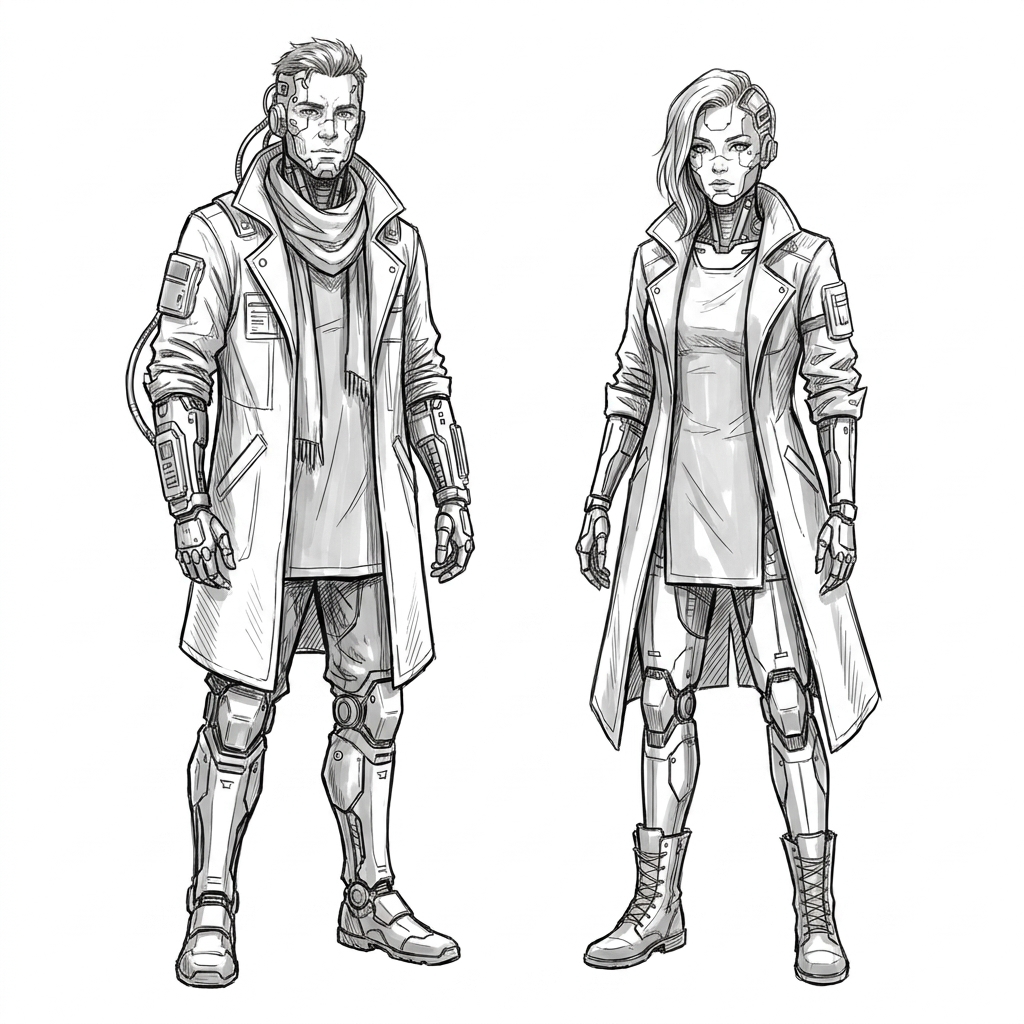
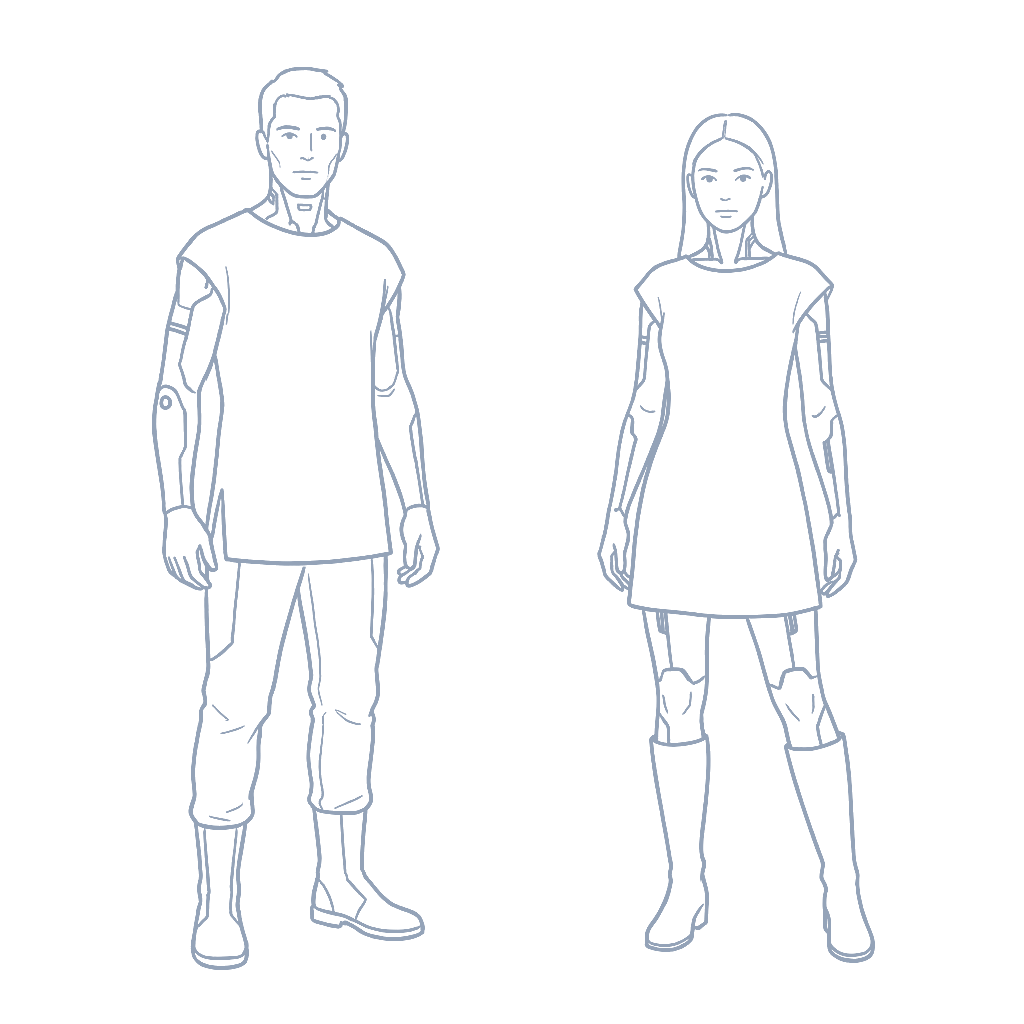
feat(character-editor): UI polish — Parameter tab, Spezies-Wappen, Karussell (#40)
* feat(character-editor): UI polish — Parameter tab, Spezies, Geschlecht, Regelset

Consolidates editor tabs, adds species/archetype carousels and skill icons,
requires gender reading on save, moves ruleset to header dropdown, renames
Wesen→Spezies, and fixes self-host migration mount path for 007.

* docs(qa): refresh composition-gate proof for UI polish slice

Updates CLEAR proof SHA and notes for gender reading, ruleset header, and
self-host migration path without changing persistence hop cardinality.

* fix(ci): satisfy typed-strict lint and PR typecheck for editor UI

Remove as-any usage in App.tsx, add React type definitions for verify
typecheck, and fix SkillSelectField/ArchetypeCarousel typing issues so
test-gate passes on pull_request against main.

* test(e2e): align character editor spec with Parameter sub-tabs

Talente now shows species traits; Essenz tab owns Gebunden/Pakt checks.

* docs(qa): refresh composition-gate proof for CI head SHA

* feat(character-editor): species heraldic banners and carousel polish

Add per-species coat-of-arms assets with colorway headers, selection-only shimmer/pulse, refreshed sketches, and updated QA evidence for the Spezies carousel.

* docs(qa): pin composition-gate proof to species carousel head SHA

---------

Changed region(s): [[0.125, 0.0312, 0.4688, 0.9688], [0.5625, 0.0625, 0.875, 0.9688]]

diff --git a/src/modules/characters/components/SpeciesCarousel.tsx b/src/modules/characters/components/SpeciesCarousel.tsx
@@ -6,6 +6,8 @@ import { useEffect, useRef, useState } from 'react';
 import { ChevronLeft, ChevronRight } from 'lucide-react';
 import { sagaDriveRaceOptions } from '../../rulesets/characterCreation';
 import { RuleHelp } from './RuleHelp';
+import { SpeciesBannerFlag } from './SpeciesBannerFlag';
+import { getSpeciesColorway } from './speciesBanners';
 import { getSpeciesSketchUrl } from './speciesSketches';
 import { Badge } from '../../../components/ui/badge';
 import { Button } from '../../../components/ui/button';
@@ -130,6 +132,49 @@ export function SpeciesCarousel({ selectedRace, onSelect, labelledBy = 'species-
           position: absolute;
           cursor: pointer;
         }
+        .species-banner-flag-wrap {
+          position: relative;
+        }
+        .species-banner-shimmer {
+          position: absolute;
+          inset: 0;
+          pointer-events: none;
+          background: linear-gradient(
+            105deg,
+            transparent 35%,
+            color-mix(in srgb, var(--species-shimmer-soft) 18%, transparent) 42%,
+            color-mix(in srgb, var(--species-shimmer) 48%, transparent) 50%,
+            color-mix(in srgb, var(--species-shimmer-soft) 18%, transparent) 58%,
+            transparent 65%
+          );
+          background-size: 220% 100%;
+          animation: species-banner-shimmer 2.8s ease-in-out infinite;
+          mix-blend-mode: overlay;
+        }
+        @keyframes species-banner-shimmer {
+          0%, 100% {
+            background-position: 180% 0;
+          }
+          50% {
+            background-position: -80% 0;
+          }
+        }
+        .species-card-header {
+          border-top-width: 2px;
+          border-top-style: solid;
+          background-color: var(--species-header-bg);
+        }
+        .species-card-header.is-selected {
+          animation: species-header-pulse 2.8s ease-in-out infinite;
+        }
+        @keyframes species-header-pulse {
+          0%, 100% {
+            background-color: var(--species-header-bg);
+          }
+          50% {
+            background-color: var(--species-header-bg-pulse);
+          }
+        }
       `}</style>
 
       <Carousel
@@ -148,6 +193,15 @@ export function SpeciesCarousel({ selectedRace, onSelect, labelledBy = 'species-
           {options.map((option, index) => {
             const isCenter = index === current;
             const isSelected = selectedRace === option.value;
+            const colorway = getSpeciesColorway(option.value);
+            const headerStyle = {
+              '--species-header-bg': colorway.headerBg,
+              '--species-header-bg-pulse': colorway.headerBgPulse,
+              '--species-accent': colorway.accent,
+              '--species-text': colorway.text,
+              '--species-border': colorway.border,
+              borderTopColor: colorway.border,
+            } as React.CSSProperties;
             return (
               <CarouselItem
                 key={option.value}
@@ -174,10 +228,11 @@ export function SpeciesCarousel({ selectedRace, onSelect, labelledBy = 'species-
                       }}
                     >
                       <div className="relative aspect-[4/5] overflow-hidden bg-background">
+                        <SpeciesBannerFlag species={option.value} isSelected={isSelected} />
                         <img
                           src={getSpeciesSketchUrl(option.value)}
                           alt={`Skizze: ${option.label}`}
-                          className="absolute inset-0 h-full w-full object-contain p-3"
+                          className="absolute inset-0 z-10 h-full w-full object-contain p-3"
                           draggable={false}
                         />
                         {isSelected && isCenter && (
@@ -186,14 +241,21 @@ export function SpeciesCarousel({ selectedRace, onSelect, labelledBy = 'species-
                           </Badge>
                         )}
                       </div>
-                      <CardHeader className="space-y-2 p-3 md:p-4">
+                      <CardHeader
+                        className={`species-card-header space-y-2 p-3 md:p-4 ${isSelected ? 'is-selected' : ''}`}
+                        style={headerStyle}
+                      >
                         <div className="flex items-center gap-1">
-                          <CardTitle className="text-sm md:text-base">{option.label}</CardTitle>
+                          <CardTitle className="text-sm md:text-base" style={{ color: colorway.accent }}>
+                            {option.label}
+                          </CardTitle>
                           <span className="inline-flex" onPointerDown={(event) => event.stopPropagation()} onClick={(event) => event.stopPropagation()}>
                             <RuleHelp label={option.label}>{option.description}</RuleHelp>
                           </span>
                         </div>
-                        <p className="text-xs leading-relaxed text-muted-foreground line-clamp-3">{option.description}</p>
+                        <p className="text-xs leading-relaxed line-clamp-3" style={{ color: colorway.text }}>
+                          {option.description}
+                        </p>
                       </CardHeader>
                     </Card>
                 </div>

diff --git a/src/modules/characters/components/speciesBanners.ts b/src/modules/characters/components/speciesBanners.ts
@@ -1,0 +1,91 @@
+/**
+ * speciesBanners — Flat-color heraldic coat of arms per SagaDrive Spezies.
+ * Style: bold logo, distinct colors/patterns, no shading, uniform 400×512px RGB.
+ * Location: src/modules/characters/components/speciesBanners.ts
+ */
+import alienBanner from '../../../assets/species/banners/alien.png';
+import cyborgBanner from '../../../assets/species/banners/cyborg.png';
+import dwarfBanner from '../../../assets/species/banners/dwarf.png';
+import elfBanner from '../../../assets/species/banners/elf.png';
+import halflingBanner from '../../../assets/species/banners/halfling.png';
+import humanBanner from '../../../assets/species/banners/human.png';
+import orcBanner from '../../../assets/species/banners/orc.png';
+
+export const speciesBannerSources: Record<string, string> = {
+  human: humanBanner,
+  elf: elfBanner,
+  dwarf: dwarfBanner,
+  halfling: halflingBanner,
+  orc: orcBanner,
+  cyborg: cyborgBanner,
+  alien: alienBanner,
+};
+
+export function getSpeciesBannerUrl(race: string): string {
+  return speciesBannerSources[race.trim().toLowerCase()] ?? humanBanner;
+}
+
+/** Farbschema pro Spezies — abgeleitet vom jeweiligen Wappen. */
+export type SpeciesColorway = {
+  headerBg: string;
+  headerBgPulse: string;
+  accent: string;
+  text: string;
+  border: string;
+};
+
+export const speciesColorways: Record<string, SpeciesColorway> = {
+  human: {
+    headerBg: 'rgba(185, 45, 40, 0.14)',
+    headerBgPulse: 'rgba(185, 45, 40, 0.22)',
+    accent: '#D4A040',
+    text: 'rgba(212, 180, 140, 0.88)',
+    border: 'rgba(185, 45, 40, 0.55)',
+  },
+  elf: {
+    headerBg: 'rgba(60, 120, 70, 0.14)',
+    headerBgPulse: 'rgba(60, 120, 70, 0.22)',
+    accent: '#8BB89A',
+    text: 'rgba(139, 184, 154, 0.88)',
+    border: 'rgba(60, 120, 70, 0.55)',
+  },
+  dwarf: {
+    headerBg: 'rgba(168, 100, 50, 0.14)',
+    headerBgPulse: 'rgba(168, 100, 50, 0.22)',
+    accent: '#D49050',
+    text: 'rgba(212, 160, 100, 0.88)',
+    border: 'rgba(168, 100, 50, 0.55)',
+  },
+  halfling: {
+    headerBg: 'rgba(80, 140, 60, 0.14)',
+    headerBgPulse: 'rgba(80, 140, 60, 0.22)',
+    accent: '#7CB356',
+    text: 'rgba(180, 200, 120, 0.88)',
+    border: 'rgba(120, 160, 70, 0.55)',
+  },
+  orc: {
+    headerBg: 'rgba(180, 40, 40, 0.14)',
+    headerBgPulse: 'rgba(180, 40, 40, 0.22)',
+    accent: '#C83838',
+    text: 'rgba(200, 120, 120, 0.88)',
+    border: 'rgba(180, 40, 40, 0.55)',
+  },
+  cyborg: {
+    headerBg: 'rgba(40, 120, 180, 0.14)',
+    headerBgPulse: 'rgba(40, 120, 180, 0.22)',
+    accent: '#40B8E0',
+    text: 'rgba(100, 180, 220, 0.88)',
+    border: 'rgba(40, 120, 180, 0.55)',
+  },
+  alien: {
+    headerBg: 'rgba(100, 40, 140, 0.14)',
+    headerBgPulse: 'rgba(100, 40, 140, 0.22)',
+    accent: '#9AE040',
+    text: 'rgba(160, 220, 100, 0.88)',
+    border: 'rgba(120, 60, 160, 0.55)',
+  },
+};
+
+export function getSpeciesColorway(race: string): SpeciesColorway {
+  return speciesColorways[race.trim().toLowerCase()] ?? speciesColorways.human;
+}

diff --git a/src/modules/characters/components/SpeciesBannerFlag.tsx b/src/modules/characters/components/SpeciesBannerFlag.tsx
@@ -1,0 +1,40 @@
+/**
+ * SpeciesBannerFlag — Rechteckiges Spezies-Wappen oben links im Karussell.
+ * Shimmer-Overlay in Wappen-Akzentfarbe pro Spezies.
+ * Location: src/modules/characters/components/SpeciesBannerFlag.tsx
+ */
+import type { CSSProperties } from 'react';
+import { getSpeciesBannerUrl, getSpeciesColorway } from './speciesBanners';
+
+type SpeciesBannerFlagProps = {
+  species: string;
+  className?: string;
+  /** Shimmer nur bei ausgewählter Spezies */
+  isSelected?: boolean;
+};
+
+export function SpeciesBannerFlag({ species, className = '', isSelected = false }: SpeciesBannerFlagProps) {
+  const key = species.trim().toLowerCase();
+  const colorway = getSpeciesColorway(key);
+
+  const shimmerStyle = {
+    '--species-shimmer': colorway.accent,
+    '--species-shimmer-soft': colorway.border,
+  } as CSSProperties;
+
+  return (
+    <div
+      className={`species-banner-flag-wrap pointer-events-none absolute left-2 top-2 z-[5] h-12 w-10 overflow-hidden md:left-3 md:top-3 md:h-14 md:w-11 ${isSelected ? 'is-selected' : ''} ${className}`}
+      style={shimmerStyle}
+      aria-hidden
+    >
+      <img
+        src={getSpeciesBannerUrl(key)}
+        alt=""
+        draggable={false}
+        className="species-banner-flag-img h-full w-full object-fill"
+      />
+      {isSelected && <div className="species-banner-shimmer" aria-hidden />}
+    </div>
+  );
+}

diff --git a/src/modules/characters/components/speciesSketches.ts b/src/modules/characters/components/speciesSketches.ts
@@ -1,6 +1,6 @@
 /**
- * speciesSketches — Meshy-generated monochrome line-art per SagaDrive Spezies.
- * Lines: muted-foreground (#94A3B8) on background (#0F172A), matching dark UI.
+ * speciesSketches — Meshy-generated minimal fashion-sketch line-art per SagaDrive Spezies.
+ * Style: #94A3B8 (muted-foreground) ink lines on transparent background, simple universal clothing.
  * Location: src/modules/characters/components/speciesSketches.ts
  */
 import alienSketch from '../../../assets/species/alien.png';

diff --git a/.qa/runs/composition-gate-sagadrive-character-editor-core.md b/.qa/runs/composition-gate-sagadrive-character-editor-core.md
@@ -1,12 +1,12 @@
 # Composition Gate — sagadrive-character-editor-core
 
-- HEAD_SHA: 38b7b92aa9b28b6e0be3805a5cba50bcbe659900
+- HEAD_SHA: 233608fa5ee8c4bc47a8d773928630b571a79701
 - BASE_SHA: f9b11da27bd192a586639f7c2cb86d7334956128
-- Date: 2026-08-26
+- Date: 2026-08-27
 - Verdict: CLEAR
 
 ## Event
-User creates/saves a SagaDrive Core Stufe-1 character from the Character Editor (UI polish slice: Parameter tab, Spezies/Archetyp carousels, required gender reading, header ruleset selector).
+User creates/saves a SagaDrive Core Stufe-1 character from the Character Editor (UI polish slice: Parameter tab, Spezies/Archetyp carousels, species heraldic banners, required gender reading, header ruleset selector).
 
 ## Hop chain
 `CharacterEditor.handleSaveCharacter` (client validation incl. name, gender reading, archetype, essence, background, skills; ruleset guard blocks D&D save) → `characterService.createCharacter` (normalize attributes/skills/`sagadrive_profile`/notes/inventory/appearance with `gender_reading`; set `owner_user_id`; persist `ruleset_key` from editor state) → Supabase `characters` insert (`skills` JSONB + `sagadrive_profile`/`notes` via migration `007`) → `mapToViewModel` on read (legacy CON/INT/WIS → endurance/mind/perception; safe defaults) → UI summary/tabs.
@@ -29,6 +29,6 @@ No queue/worker/outbox hop.
 n/a
 
 ## Notes
+- Species carousel banner/sketch assets and `SpeciesBannerFlag` shimmer/pulse are presentational only; `selectedRace` still flows through existing carousel `onSelect` → editor state → unchanged save hop.
 - Known product gap (documented, not a composition flag): Rank-I essence manifestation catalog absent; editor defers instead of inventing placeholders.
-- Self-host migration path change (`docker-compose` mount + `scripts/apply-migrations.sh`) does not alter client→service→DB hop cardinality; applies 007 out-of-band on existing stacks.
-- Playwright evidence under `.qa/evidence/sagadrive-character-editor-core/` verifies UI meaning without changing hop cardinality.
+- Playwright evidence under `.qa/evidence/sagadrive-character-editor-core/` refreshed for updated Spezies UI; hop cardinality unchanged.

diff --git a/README.md b/README.md
@@ -150,6 +150,7 @@ Die Browser-Evidence und Playwright-Berichte werden im CI-Lauf als Artifact `cha
 
 ## Recent changes
 
+- **2026-08-27** — Spezies-Karussell: Wappen pro Spezies (Shimmer/Puls bei Auswahl), Colorway-Header, überarbeitete Skizzen und Skalierung Zwerg/Halbling (`feat/character-editor-ui-polish`)
 - **2026-08-26** — Character Editor UI: Parameter-Tab (Attribute/Talente/Archetyp/Essenz), Spezies- & Archetyp-Karussells, Pflichtfeld Geschlecht, Regelset-Dropdown, Skill-Icons, Terminologie Wesen→Spezies, collapsible Sidebar (`feat/character-editor-ui-polish`)
 - **2026-08-26** — SagaDrive Core Character Editor verifiziert (test-gate, composition-gate CLEAR, Playwright Evidence `01`–`12`) (`feat/sagadrive-character-editor-core`)
 
